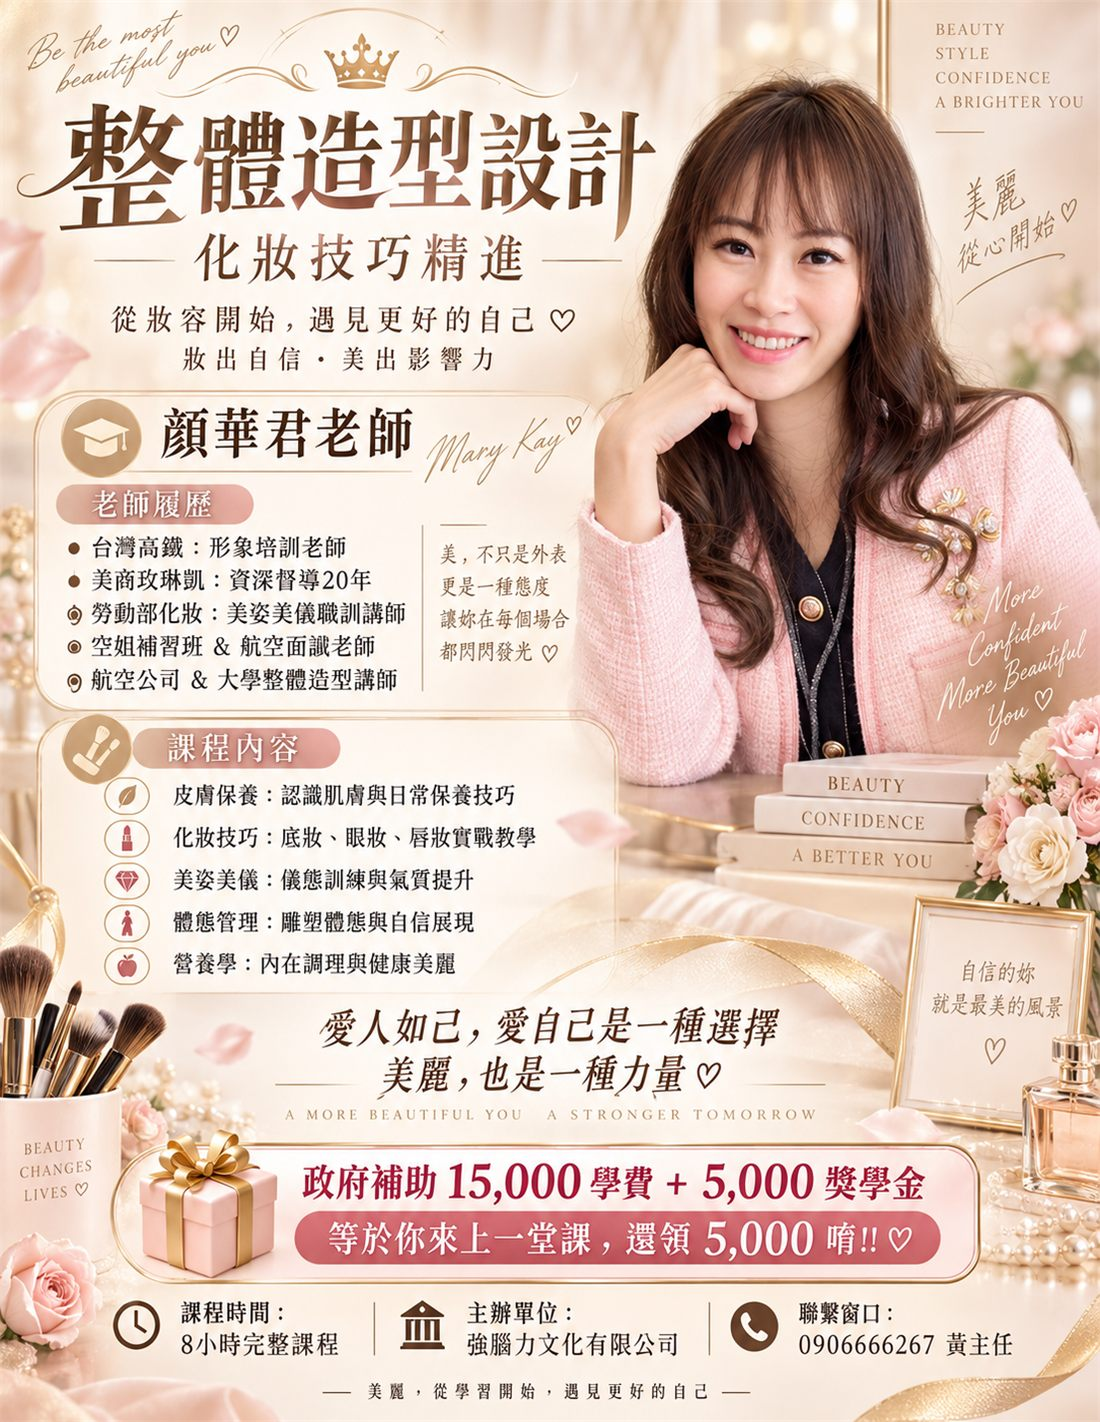
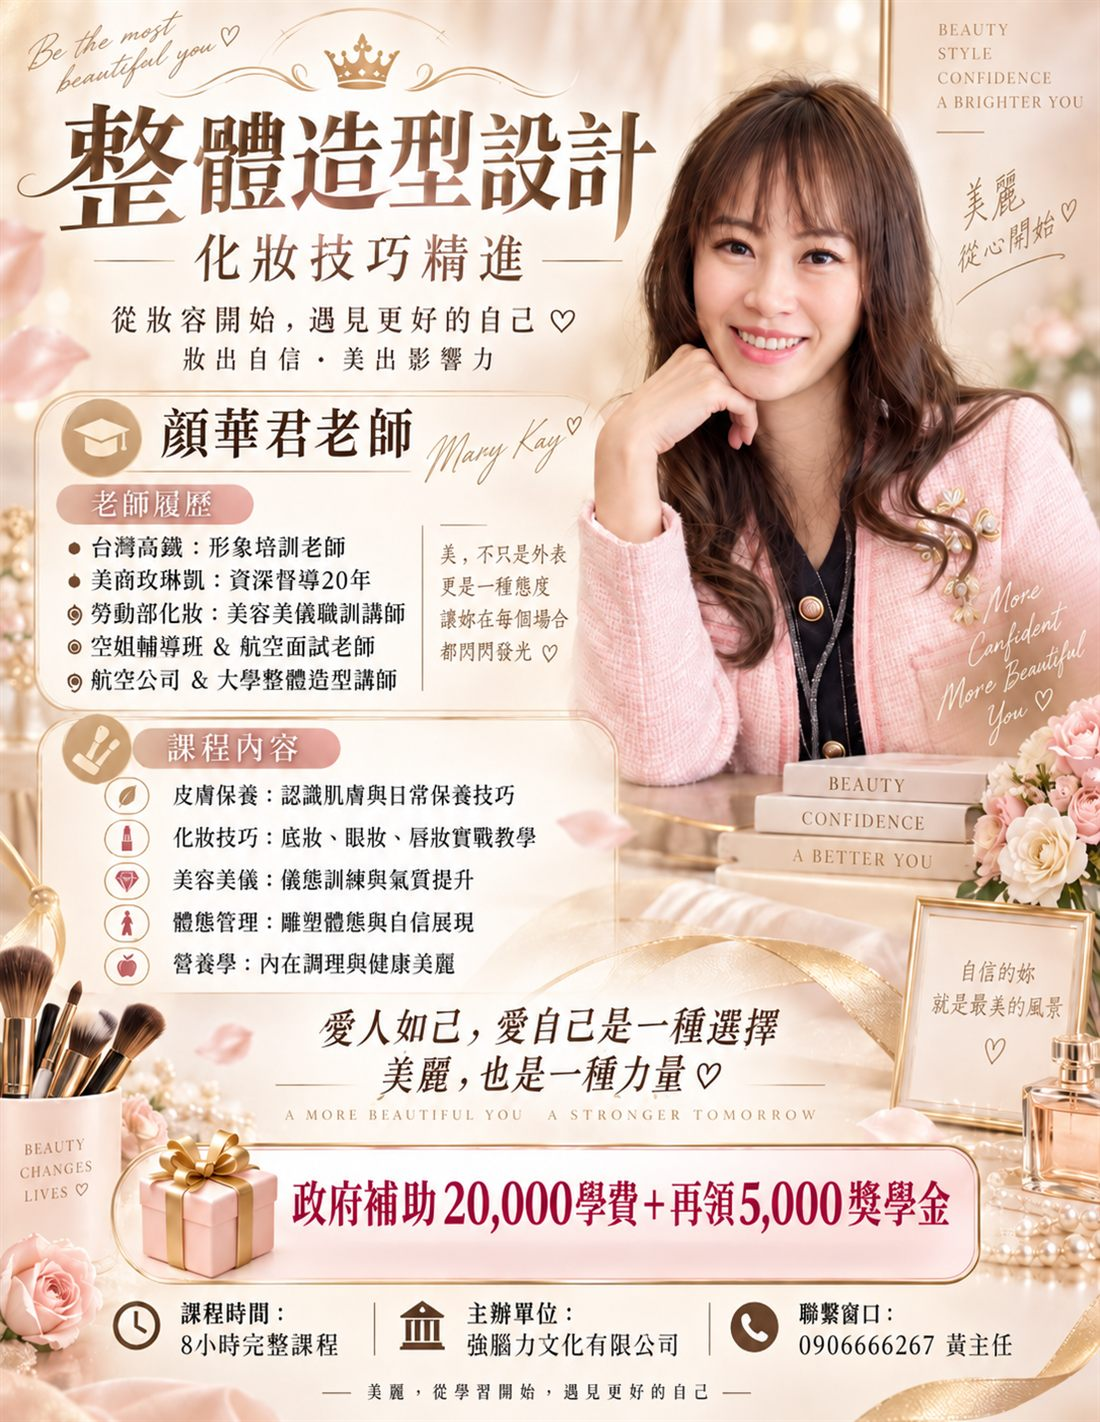
補助金額改回 20,000＋華君新海報

diff --git a/funv.html b/funv.html
@@ -208,7 +208,7 @@
       <li>♥你是一個女生</li>
       <li>🔥180天沒工作薪水</li>
     </ul>
-    <p class="claim">政府補助 15,000 學費＋5,000 獎學金<span class="claim-sub">結業後再補助 70,000 創業、就業獎金</span></p>
+    <p class="claim">政府補助 20,000 學費＋再領 5,000 獎學金<span class="claim-sub">結業後再補助 70,000 創業、就業獎金</span></p>
     <p class="gov"><a href="https://yct168.wda.gov.tw/News_Content.aspx?n=9033C1B0BF411300&amp;sms=ECFC6372C8869F6D&amp;s=336CFE3D932B2F01" target="_blank" rel="noopener">勞動部網頁（補助辦法原文）→</a></p>
     <a class="lbtn" href="https://lin.ee/9EGO8IT" target="_blank" rel="noopener"><svg viewBox="0 0 24 24" aria-hidden="true"><path d="M24 10.3C24 4.9 18.6.6 12 .6S0 4.9 0 10.3c0 4.8 4.3 8.9 10 9.7.4.1.9.3 1.1.6.1.3.1.7.1 1l-.2 1.1c0 .3-.3 1.3 1.1.7 1.4-.6 7.4-4.4 10.1-7.5 1.8-2 2.7-4 2.7-6.2z"/></svg>先加 LINE 再填表單</a>
   </section>
